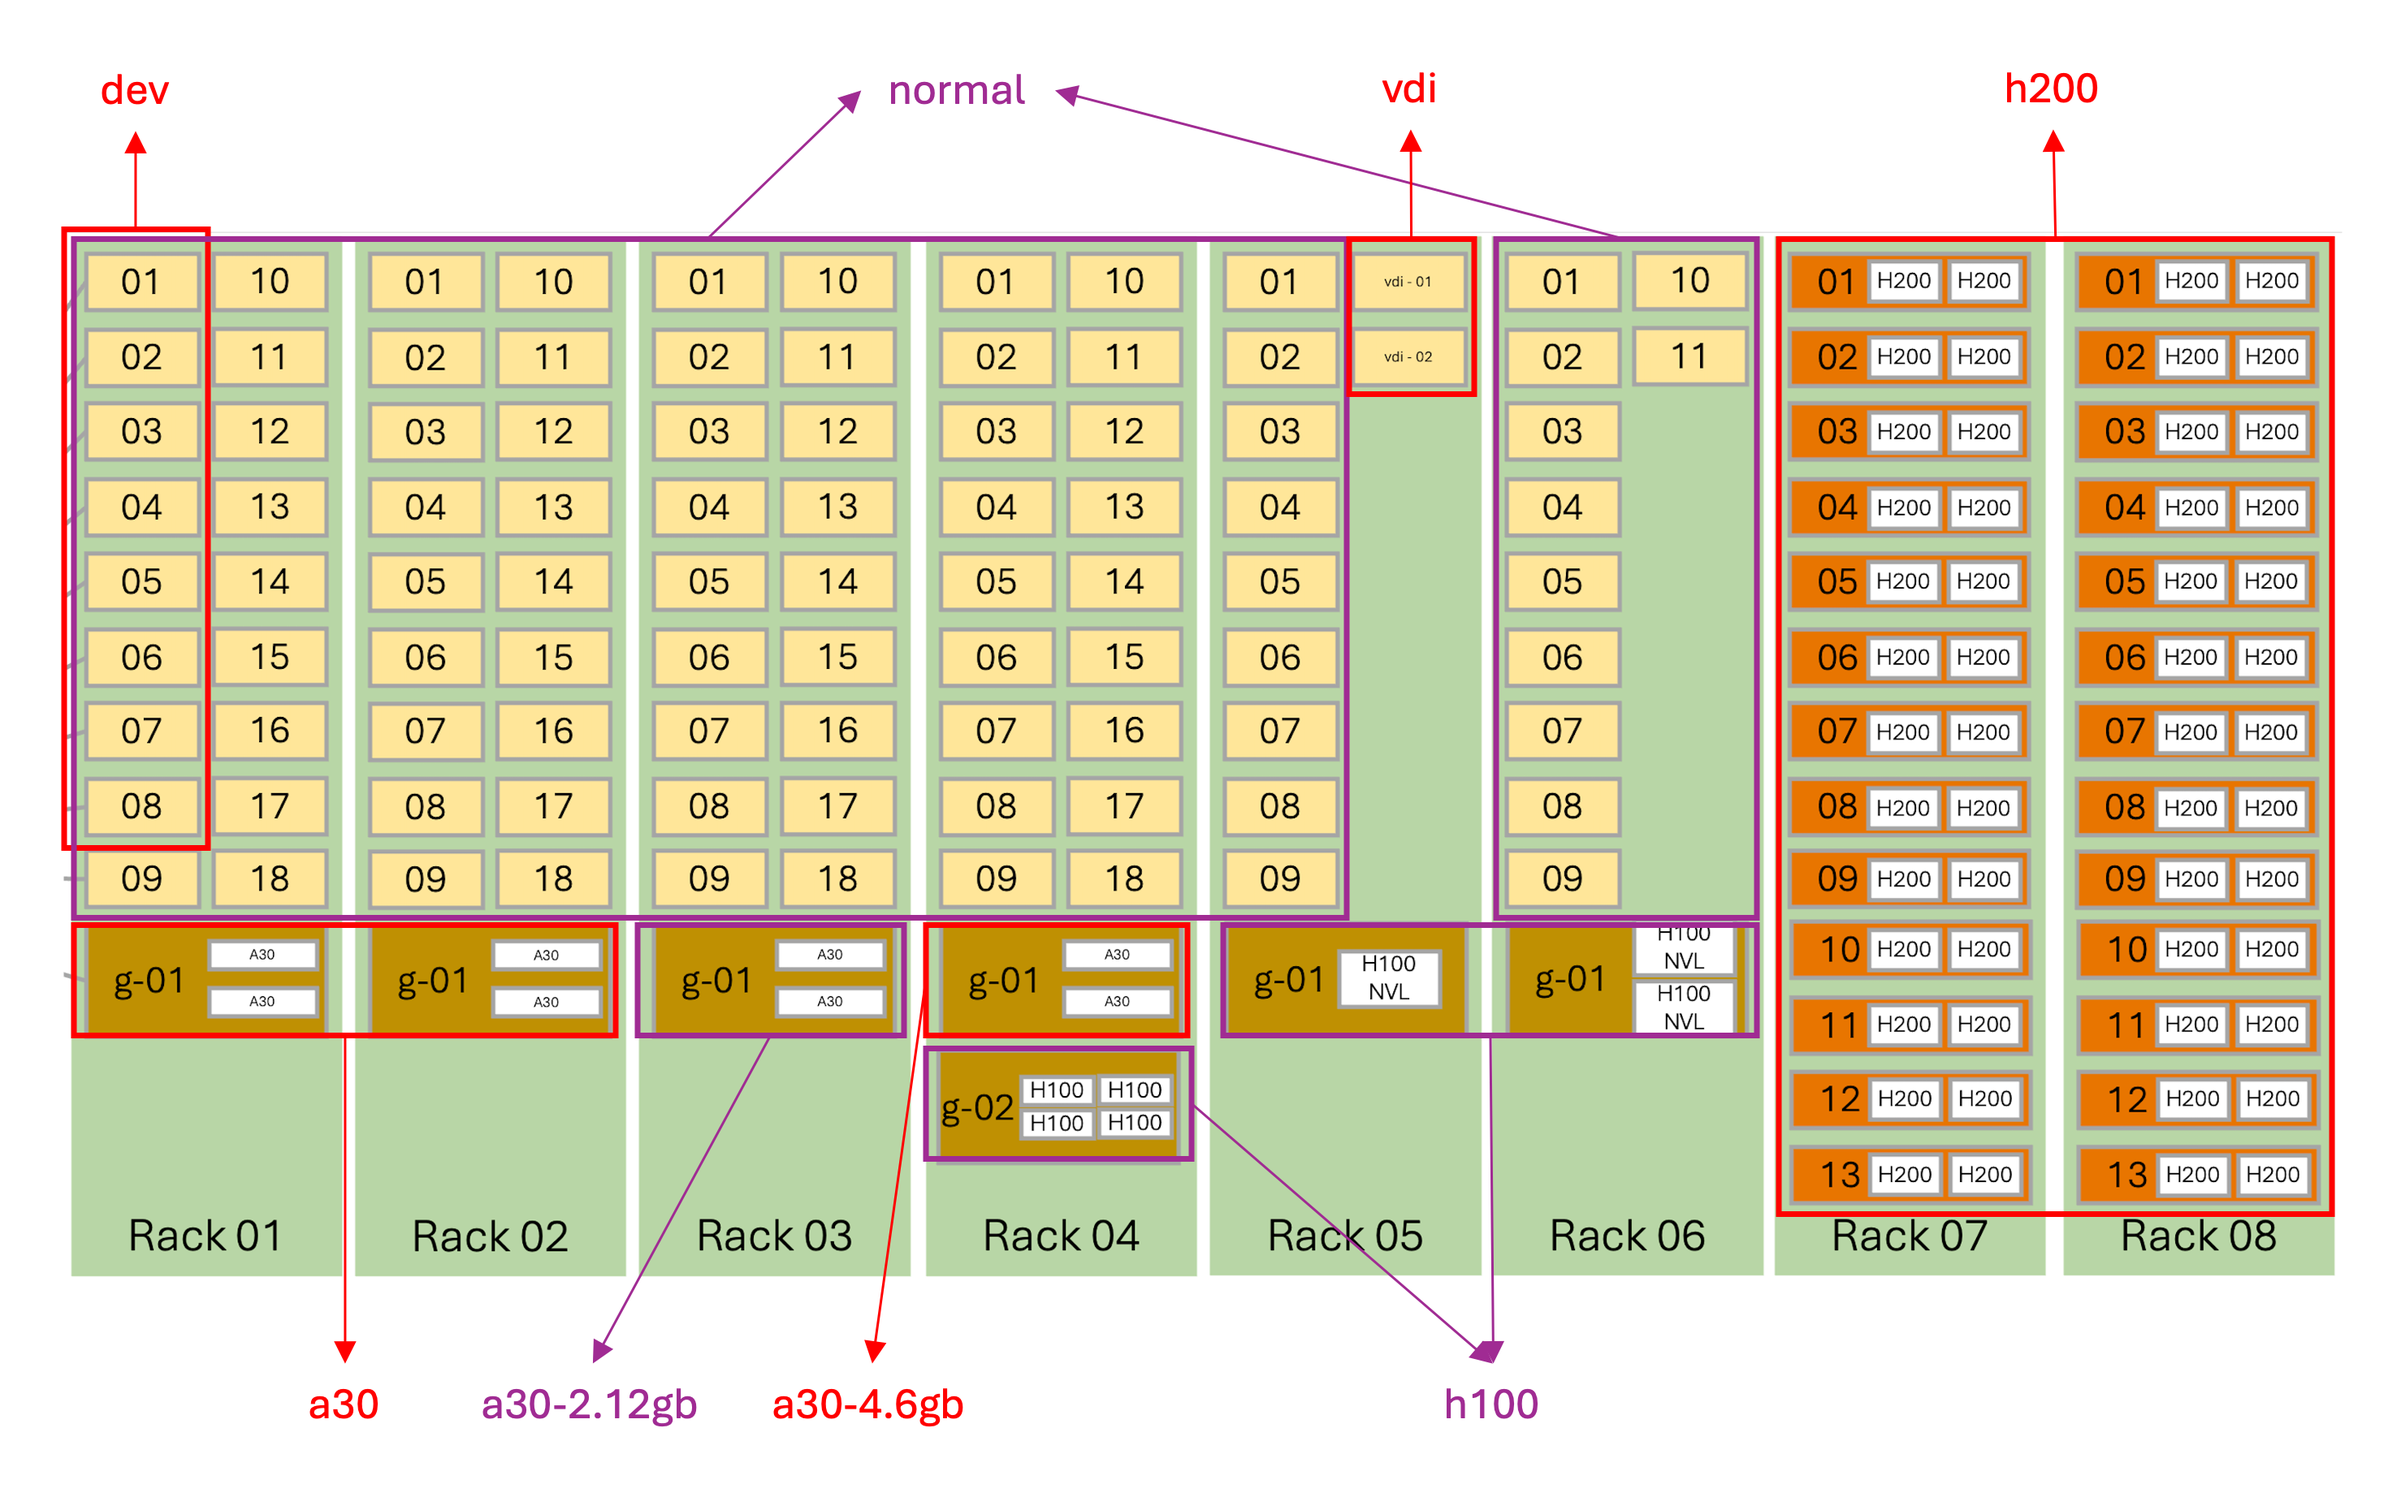
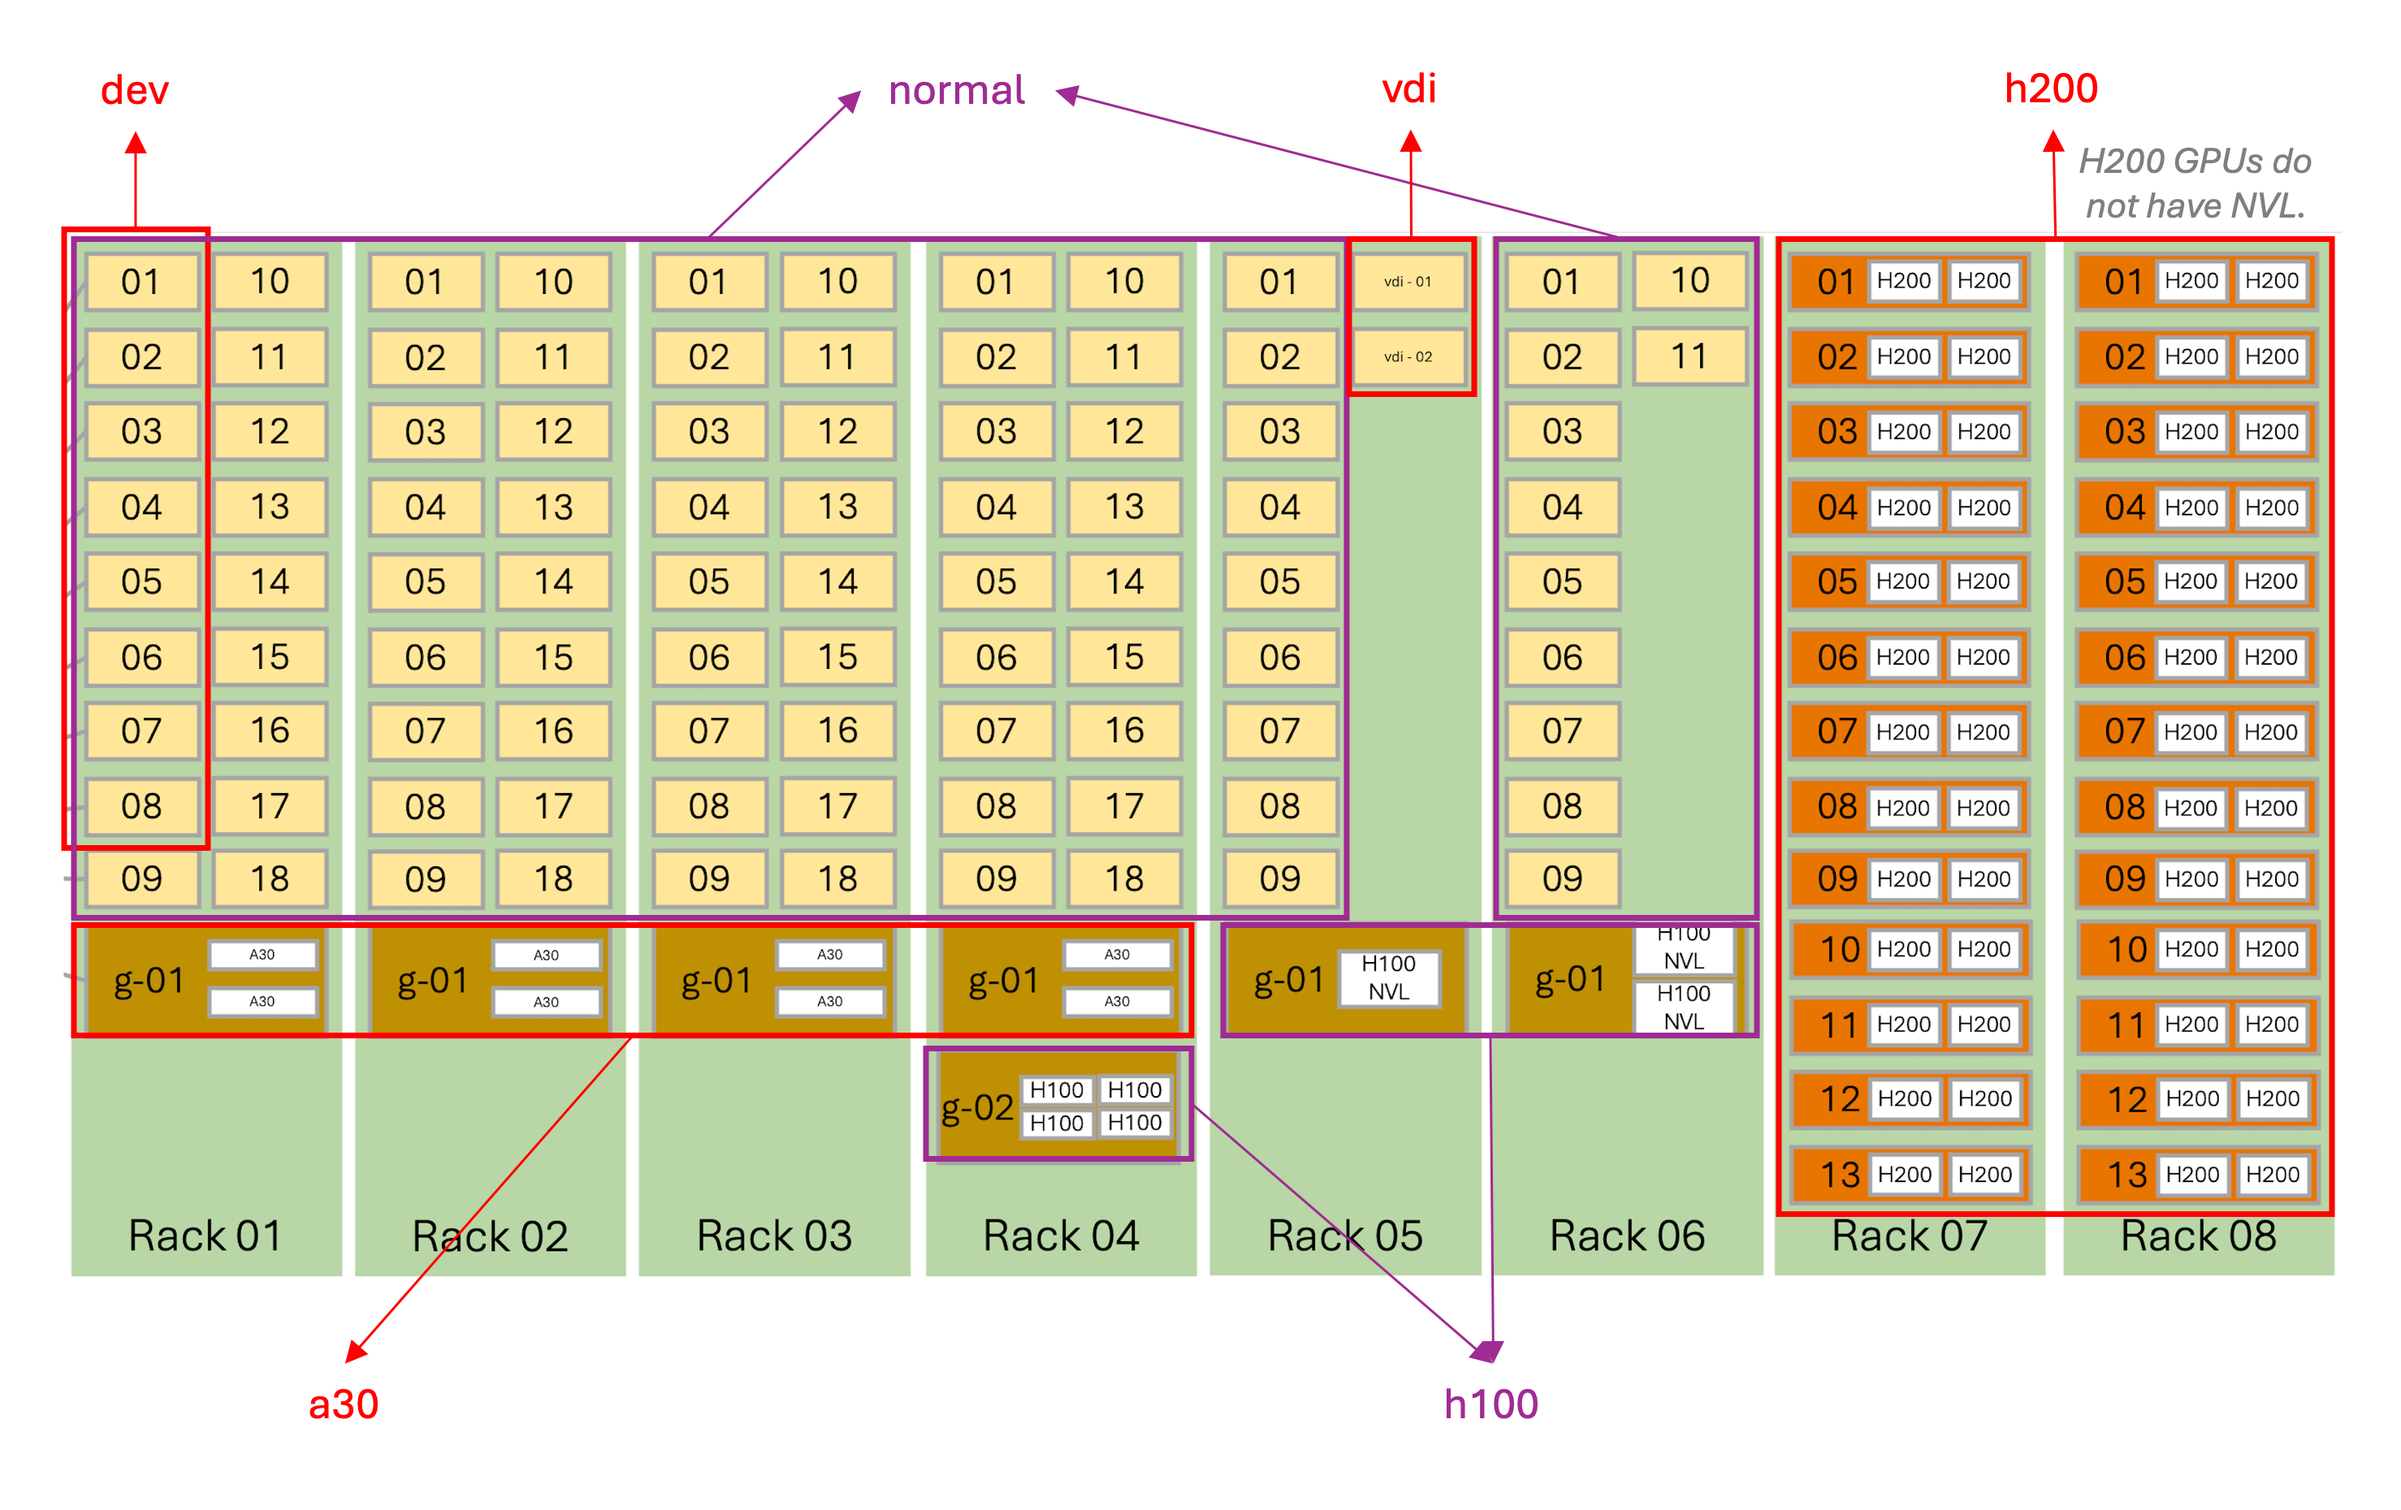
Updated SLURM config

diff --git a/docs/running-programs/slurm.md b/docs/running-programs/slurm.md
@@ -518,7 +518,7 @@ sinfo -o "%P %l"
 
 2. **Use appropriate partitions**:
    - `normal` for CPU jobs, `dev` for short test jobs
-   - `h100` / `a30` (and their virtual-slice variants) for GPU jobs
+   - `h200` / `h100` / `a30` for GPU jobs
    - See the [partitions table](#partitions-overview) or run `sinfo`
 
 3. **Organize output files**:
@@ -540,18 +540,16 @@ sinfo -o "%P %l"
 
 ## Partitions Overview
 
-![Juno cluster partitions — how the compute nodes are divided across dev, normal, h200, h100, a30, a30-2.12gb, a30-4.6gb, and vdi partitions.](../images/slurm-partitions.png)
+![Juno cluster partitions — how the compute nodes are divided across dev, normal, h200, h100, a30, and vdi partitions.](../images/slurm-partitions.png)
 
 | Partition name | Time limit | Nodes | Max nodes/job | Cores/node | Memory/node | GPUs/node                             | VRAM/GPU   | Best used for |
 |----------------|------------|-------|----------------|------------|-------------|---------------------------------------|------------|---------------|
-| `dev`            | 2 hours    | 8*    | 4              | 64         | 384 GB      | –                                     | –          | Code development, short jobs, benchmarking |
-| `normal`         | 2 days     | 92*   | 8†             | 64         | 384 GB      | –                                     | –          | Long jobs, big jobs, production (main) compute workloads |
-| `h200` ‡         | 2 days     | 26    | 8              | 64         | 384 GB      | 2 H200 NVL (physical)                 | 141 GB     | Very large models, distributed AI training |
-| `h100` ‡         | 2 days     | 3§    | 2 / 1§         | 64         | 512 GB      | 4 H100 (80 GB), 1 H100 NVL (94 GB), or 4 half-H100 virtual (47 GB)§ | 80 / 94 / 47 GB | Large, long jobs requiring high GPU resources |
-| `a30` ‡          | 2 days     | 2     | 2              | 128        | 1,024 GB    | 2 A30 (physical)                      | 24 GB      | Large, long jobs requiring medium GPU resources |
-| `a30-2.12gb` ‡   | 2 days     | 1     | 1              | 128        | 1,024 GB    | 4 half-A30 (virtual)                  | 12 GB      | GPU jobs with moderate memory needs |
-| `a30-4.6gb` ‡    | 2 days     | 1     | 1              | 128        | 1,024 GB    | 8 quarter-A30 (virtual)               | 6 GB       | GPU jobs with minimal memory requirements |
-| `vdi`            | 8 hours    | 2     | 1              | 64         | 384 GB      | –                                     | –          | GUI-interactive workloads (Open OnDemand) |
+| `dev`            | 2 hours    | 8*    | 4              | 64         | 384 GB      | –                                     | –          | Code development and debugging |
+| `normal`         | 2 days     | 92*   | 8†             | 64         | 384 GB      | –                                     | –          | Large, long jobs, production (main) compute workloads |
+| `h200` ‡         | 2 days     | 26    | 8              | 64         | 384 GB      | 2 H200 NVL                            | 141 GB     | Large, long jobs requiring high GPU resources |
+| `h100` ‡         | 2 days     | 3§    | 1              | 64         | 512 GB      | 4 H100, 2 H100 NVL, or 1 H100 NVL§    | 80 / 94 GB | Large, long jobs requiring high GPU resources |
+| `a30` ‡          | 2 days     | 4     | 2              | 128        | 1,024 GB    | 2 A30                                 | 24 GB      | Large, long jobs requiring medium GPU resources |
+| `vdi`            | 8 hours    | 2     | 1              | 64         | 384 GB      | –                                     | –          | Used by Open OnDemand workload |
 
 \* `dev` partition shares nodes with the `normal` partition.
 
@@ -559,7 +557,7 @@ sinfo -o "%P %l"
 
 ‡ GPU partitions — pass the `--gres=gpu:<n>` option to `sbatch`/`srun` to request `<n>` GPUs; jobs that omit it are allocated no GPU.
 
-§ The `h100` partition spans three GPU configurations across its nodes: 4× H100 (80 GB, max 2 nodes/job), 1× H100 NVL (94 GB, max 1 node/job), and 4× half-H100 virtual slices (47 GB, max 1 node/job). The former `h100-94gb` and `h100-2.47gb` partitions have been merged into `h100`.
+§ The `h100` partition has three nodes, one of each configuration: 4× H100 (80 GB), 2× H100 NVL (94 GB), and 1× H100 NVL (94 GB).
 
 The `h200` partition is available. The H200 NVL cards have **no NVLink** — GPUs connect via PCIe Gen 5.0 within a node and 400 Gb InfiniBand between nodes. See [GPU Computing on Juno](../ai-and-ml/index.md).
 

diff --git a/docs/getting-started/hardware.md b/docs/getting-started/hardware.md
@@ -36,8 +36,6 @@ These are the standard compute nodes used for most CPU-based workloads. Submit j
 | 1 | 2× Intel Xeon Platinum 8462Y 2.8 GHz | 64 cores total | 512 GB | 2× H100 (physical, 94 GB NVL) | 94 GB | HDR100 InfiniBand |
 | 1 | 2× Intel Xeon Platinum 8462Y 2.8 GHz | 64 cores total | 512 GB | 1× H100 (physical, 94 GB NVL) | 94 GB | HDR100 InfiniBand |
 
-H100 nodes also support **virtual GPU slicing** — a single physical H100 can be split into multiple virtual GPUs. See the [SLURM partitions table](../running-programs/slurm.md#partitions-overview) for available GPU configurations.
-
 !!! note "NVLink is only on `g-04-02`"
     Only the **4× H100 (80 GB HBM3)** node, `g-04-02`, has **NVLink** for fast direct GPU-to-GPU communication. Despite the "NVL" in their product name, the 94 GB H100 NVL nodes do **not** have NVLink bridges installed, and the A30 nodes have no NVLink either — on all other nodes, GPUs communicate over PCIe. This matters for multi-GPU jobs (see [PyTorch Training Tutorial](../ai-and-ml/pytorch-training.md)).
 
@@ -46,8 +44,6 @@ H100 nodes also support **virtual GPU slicing** — a single physical H100 can b
 | Quantity | CPU | Cores/node | RAM | GPUs | GPU Memory | Network |
 |----------|-----|------------|-----|------|------------|---------|
 | 4 | 2× AMD EPYC 9534 2.45 GHz | 64C/128T per CPU → **128 cores total** | 1,024 GB | 2× A30 (physical, 24 GB each) | 24 GB | HDR100 InfiniBand, 2× 10/25 Gbps Ethernet |
-
-A30 nodes also support virtual GPU slicing into 12 GB and 6 GB configurations.
 
 ## GPU Compute Nodes — NVIDIA H200
 
@@ -64,13 +60,9 @@ H200 NVL cards have **no NVLink** — GPUs communicate over PCIe Gen 5.0 within 
 
 | Partition | GPU Type | Count | VRAM Each |
 |-----------|----------|-------|-----------|
-| `a30` | A30 physical | 2 per node | 24 GB |
-| `a30-2.12gb` | A30 virtual (half) | 4 per node | 12 GB |
-| `a30-4.6gb` | A30 virtual (quarter) | 8 per node | 6 GB |
-| `h100` | H100 physical / virtual | 4× (80 GB), 1× (94 GB NVL), or 4× half-slice (47 GB) | 80 / 94 / 47 GB |
+| `a30` | A30 | 2 per node | 24 GB |
+| `h100` | H100 / H100 NVL | 4× (80 GB), 2× (94 GB NVL), or 1× (94 GB NVL) per node | 80 / 94 GB |
 | `h200` | H200 NVL | 2 per node | 141 GB |
-
-![GPU virtual slicing — a physical A30 or H100 can be divided into multiple virtual GPUs, each with a smaller VRAM slice, for concurrent lightweight workloads.](../images/hardware-gpu-slicing.png)
 
 ## Network Infrastructure
 

diff --git a/docs/ai-and-ml/index.md b/docs/ai-and-ml/index.md
@@ -10,13 +10,11 @@ Juno provides several GPU partitions suited to different workloads, from interac
 
 | Partition | Nodes | GPUs / Node | GPU Model | VRAM / GPU | Time Limit | Best For |
 |---|---|---|---|---|---|---|
-| `a30` | 2 | 2 | NVIDIA A30 | 24 GB | 2 days | Medium GPU workloads, inference, development |
-| `a30-2.12gb` | 1 | 4 (virtual, half-A30) | NVIDIA A30 | 12 GB | 2 days | Multiple concurrent small jobs |
-| `a30-4.6gb` | 1 | 8 (virtual, quarter-A30) | NVIDIA A30 | 6 GB | 2 days | Light GPU jobs, debugging |
-| `h100` | 1 | 4 | NVIDIA H100 (80GB HBM3) | 80 GB | 2 days | Large models, high-throughput / multi-GPU training |
+| `a30` | 4 | 2 | NVIDIA A30 | 24 GB | 2 days | Medium GPU workloads, inference, development |
+| `h100` | 3 | 4 / 2 / 1 | NVIDIA H100 (80 GB HBM3) / H100 NVL (94 GB) | 80 / 94 GB | 2 days | Large models, high-throughput / multi-GPU training |
 | `h200` | 26 | 2 | NVIDIA H200 NVL | 141 GB | 2 days | Very large models, distributed AI training |
 
-*The `h100` partition also serves a 94 GB H100 NVL node and 47 GB half-H100 virtual slices (the former `h100-94gb` and `h100-2.47gb` partitions, now merged into `h100`).*
+*The `h100` partition has one 4× H100 (80 GB) node, one 2× H100 NVL (94 GB) node, and one 1× H100 NVL (94 GB) node.*
 
 !!! note "H200 Nodes"
     Juno has 26 H200 nodes (52 GPUs total). The NVIDIA H200 NVL carries **141 GB of HBM3e memory** — nearly double the H100 — making it ideal for training and serving large language models that don't fit on older GPUs. These are **NVL cards with no NVLink** between GPUs: GPUs attach via PCIe Gen 5.0, and nodes are connected by 400 Gb InfiniBand for distributed training.
@@ -82,7 +80,7 @@ See the [Miniconda Guide](../advanced/miniconda.md) for more on managing Conda e
 
 ```bash
 # See GPU partition status
-sinfo -p h200,h100,a30,a30-2.12gb,a30-4.6gb
+sinfo -p h200,h100,a30
 
 # Detailed view of a specific GPU node
 scontrol show node g-05-01

diff --git a/docs/running-programs/advanced-slurm.md b/docs/running-programs/advanced-slurm.md
@@ -49,7 +49,7 @@ dev             up    2:00:00      5   idle c-02-[01-05]
 sinfo -t idle,mix
 
 # Show GPU partitions only
-sinfo -p h100,a30,a30-2.12gb,a30-4.6gb
+sinfo -p h200,h100,a30
 
 # One line per node (useful for detailed view)
 sinfo -N -l
@@ -404,7 +404,7 @@ Your time in the queue is driven by two things: **how much you request** and you
 
 - **Submit to multiple partitions** so the job starts wherever capacity frees up first: `sbatch -p normal,dev job.sh` (see [Submitting to Multiple Partitions](slurm.md#submitting-to-multiple-partitions)).
 - **Use `dev` for short jobs** — it shares hardware with `normal` but is sized for quick turnaround (2-hour limit).
-- **Right-size GPU requests** — a full H100 is in high demand, so a [virtual GPU slice](slurm.md#partitions-overview) (`a30-2.12gb`, or a half-H100 slice in the `h100` partition) may start much sooner for light GPU work.
+- **Right-size GPU requests** — H100s are in high demand, so if your job fits in 24 GB of VRAM, an [`a30` GPU](slurm.md#partitions-overview) may start much sooner. Request only as many GPUs (`--gres=gpu:<n>`) as your code actually uses.
 
 ### 4. See the whole cluster at a glance — `cluster_monitor.py`
 

diff --git a/docs/support/faq.md b/docs/support/faq.md
@@ -147,7 +147,7 @@ Or check your program for memory leaks.
 ### How do I request GPU resources?
 
 ```bash
-#SBATCH -p h100                 # or h200, a30, a30-2.12gb, a30-4.6gb
+#SBATCH -p h100                 # or h200, a30
 #SBATCH --gres=gpu:1            # Request 1 GPU
 ```
 
@@ -155,11 +155,9 @@ Choose the partition based on your VRAM needs:
 
 | Partition | GPU | VRAM |
 |-----------|-----|------|
-| `h200` | H200 NVL (physical) | 141 GB |
-| `h100` | H100 (physical or half-slice) | 80 GB, 94 GB NVL, or 47 GB half |
-| `a30` | A30 (physical) | 24 GB |
-| `a30-2.12gb` | A30 (virtual half) | 12 GB |
-| `a30-4.6gb` | A30 (virtual quarter) | 6 GB |
+| `h200` | H200 NVL | 141 GB |
+| `h100` | H100 or H100 NVL | 80 GB or 94 GB NVL |
+| `a30` | A30 | 24 GB |
 
 See [SLURM Guide](../running-programs/slurm.md) for GPU job examples.
 
